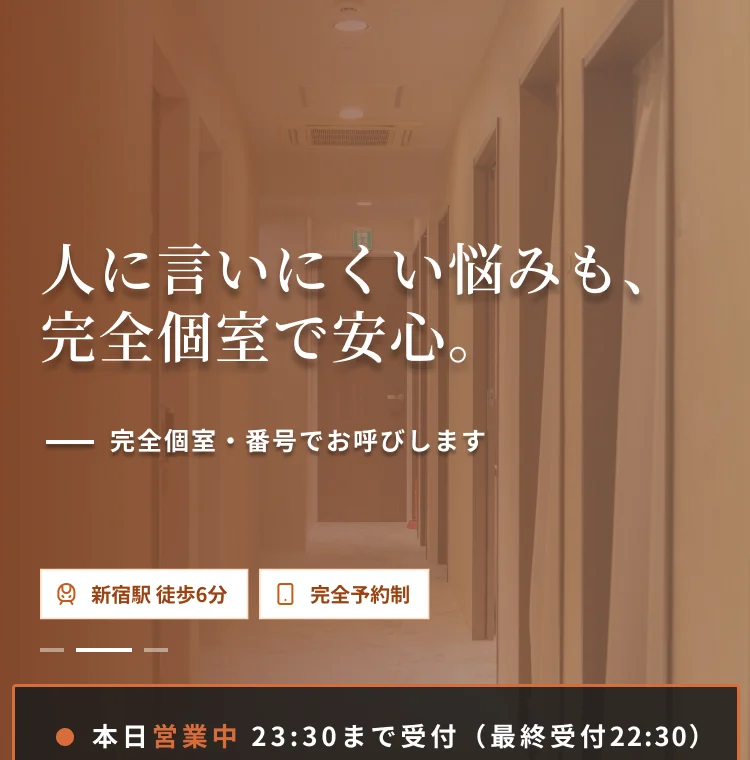
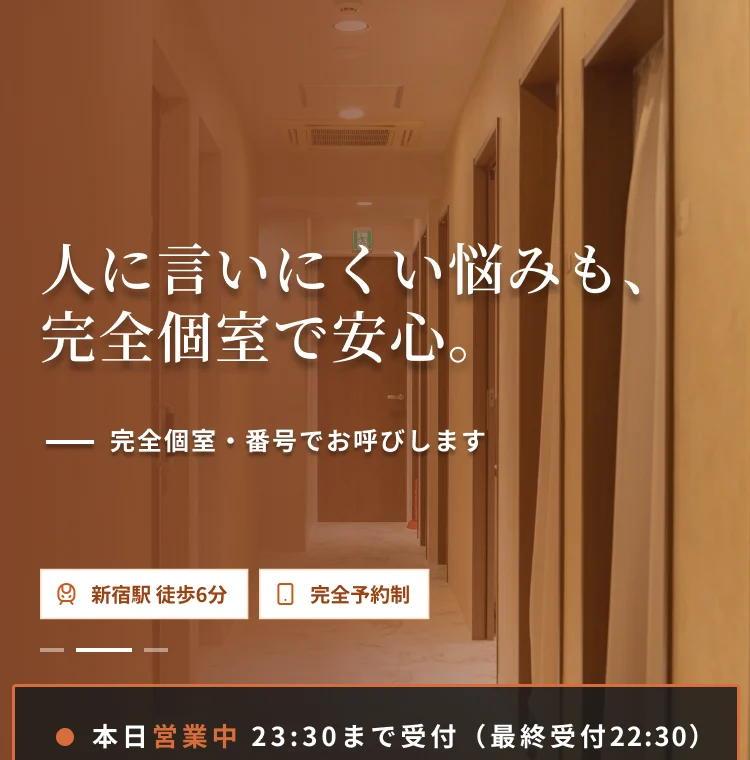
v5: lighter right side of TOP overlay, transparent AI chat button, manga link fix, manga pages
Claude-Session: https://claude.ai/code/session_01GKysvMgQaFn1SDy6QJPiim

diff --git a/public/v5/index.html b/public/v5/index.html
@@ -7,7 +7,7 @@
 <a class="hs hs-link" href="./en/" style="left:47.4%;top:25%;width:17.8%;height:50%;border-radius:2px" aria-label="English"></a>
 <button class="hs hs-web" data-act="web" style="left:65.9%;top:27%;width:17.9%;height:46%;border-radius:2px" aria-label="Web予約"></button>
 <button class="hs hs-menu" style="left:84.7%;top:15%;width:12.9%;height:70%;border-radius:2px" aria-label="メニュー"></button></header>
-<main><section class="sl fv"><div class="ch" style="aspect-ratio:375/1019"><img src="./assets/p/01/00.webp" alt="" width="750" height="2038" loading="eager" decoding="async"><div class="hero-sl" aria-roledescription="carousel" style="left:0.000%;top:0.000%;width:100.000%;height:37.291%"><img src="./assets/p/01/hero1.webp" alt="" width="750" height="760" decoding="async" class=on><img src="./assets/p/01/hero2.webp" alt="" width="750" height="760" decoding="async"><img src="./assets/p/01/hero3.webp" alt="" width="750" height="760" decoding="async"><button class="hero-dot" data-i="0" aria-label="スライド1を表示" style="left:4.267%;top:82.368%;width:9.600%;height:6.316%"></button><button class="hero-dot" data-i="1" aria-label="スライド2を表示" style="left:13.333%;top:82.368%;width:5.333%;height:6.316%"></button><button class="hero-dot" data-i="2" aria-label="スライド3を表示" style="left:18.133%;top:82.368%;width:5.333%;height:6.316%"></button></div><button class="hs hs-line" style="left:4.800%;top:42.591%;width:90.400%;height:2.159%;border-radius:2px" data-act="line" aria-label="line"></button><button class="hs hs-web" style="left:7.200%;top:48.381%;width:85.600%;height:5.299%;border-radius:2px" data-act="web" aria-label="web"></button></div></section><section class="sl rv"><div class="ch" style="aspect-ratio:375/376"><img src="./assets/p/01/01.webp" alt="" width="750" height="752" loading="eager" decoding="async"><a class="hs hs-link" style="left:9.867%;top:64.628%;width:80.267%;height:15.426%;border-radius:2px" href="./std/pcr/" aria-label="性病即日検査・PCR検査"></a></div></section><section class="sl rv"><div class="ch" style="aspect-ratio:375/396"><img src="./assets/p/01/02.webp" alt="" width="750" height="792" loading="eager" decoding="async"><a class="hs hs-link" style="left:4.800%;top:30.051%;width:90.400%;height:14.646%;border-radius:2px" href="./news/sample/" aria-label="お知らせ詳細"></a><a class="hs hs-link" style="left:4.800%;top:43.687%;width:90.400%;height:14.646%;border-radius:2px" href="./news/sample/" aria-label="お知らせ詳細"></a><a class="hs hs-link" style="left:4.800%;top:57.323%;width:90.400%;height:14.646%;border-radius:2px" href="./news/sample/" aria-label="お知らせ詳細"></a><a class="hs hs-link" style="left:4.800%;top:79.293%;width:90.400%;height:14.646%;border-radius:2px" href="./news/" aria-label="お知らせ一覧"></a></div></section><section class="sl rv"><div class="ch" style="aspect-ratio:375/423"><img src="./assets/p/01/03.webp" alt="" width="750" height="846" loading="lazy" decoding="async"><a class="hs hs-link" style="left:8.533%;top:50.118%;width:25.600%;height:8.274%;border-radius:2px" href="./price/" aria-label="料金表"></a><a class="hs hs-link" style="left:9.333%;top:69.740%;width:19.200%;height:9.929%;border-radius:2px" href="./price/" aria-label="料金表"></a><a class="hs hs-link" style="left:30.133%;top:69.740%;width:29.600%;height:9.929%;border-radius:2px" href="./faq/" aria-label="よくある質問"></a><a class="hs hs-link" style="left:61.333%;top:69.740%;width:29.600%;height:9.929%;border-radius:2px" href="./about/" aria-label="当院について"></a><a class="hs hs-link" style="left:9.333%;top:81.087%;width:44.000%;height:9.929%;border-radius:2px" href="./en/" aria-label="For Inbound Tourists"></a></div></section><section class="sl rv"><div class="ch" style="aspect-ratio:375/1734"><img src="./assets/p/01/04.webp" alt="" width="750" height="3468" loading="lazy" decoding="async"><a class="hs hs-link" style="left:10.400%;top:24.913%;width:35.200%;height:1.730%;border-radius:2px" href="./internal-medicine/" aria-label="内科"></a><a class="hs hs-link" style="left:10.400%;top:44.348%;width:35.200%;height:1.730%;border-radius:2px" href="./urology/" aria-label="泌尿器科"></a><a class="hs hs-link" style="left:10.400%;top:64.187%;width:35.200%;height:1.730%;border-radius:2px" href="./std/" aria-label="性病検査・性感染症"></a><a class="hs hs-link" style="left:9.067%;top:76.067%;width:35.200%;height:1.730%;border-radius:2px" href="./beauty/" aria-label="美容点滴・美容内服"></a><a class="hs hs-link" style="left:9.067%;top:82.584%;width:35.200%;height:1.730%;border-radius:2px" href="./ed/" aria-label="ED治療"></a><a class="hs hs-link" style="left:55.467%;top:88.927%;width:35.200%;height:1.730%;border-radius:2px" href="./pill/" aria-label="低用量ピル"></a><a class="hs hs-link" style="left:9.067%;top:88.927%;width:35.200%;height:1.730%;border-radius:2px" href="./afterpill/" aria-label="アフターピル"></a><a class="hs hs-link" style="left:55.467%;top:76.182%;width:35.200%;height:1.730%;border-radius:2px" href="./diet/" aria-label="メディカルダイエット"></a><a class="hs hs-link" style="left:55.200%;top:82.526%;width:35.200%;height:1.730%;border-radius:2px" href="./aga/" aria-label="AGA治療"></a><a class="hs hs-link" style="left:4.800%;top:94.348%;width:90.400%;height:3.345%;border-radius:2px" href="./jihi/" aria-label="自費診療一覧"></a></div></section><section class="sl rv"><div class="ch" style="aspect-ratio:375/1834"><img src="./assets/p/01/05.webp" alt="" width="750" height="3668" loading="lazy" decoding="async"></div></section><section class="sl rv"><div class="ch" style="aspect-ratio:375/693"><img src="./assets/p/01/06.webp" alt="" width="750" height="1386" loading="lazy" decoding="async"><a class="hs hs-link" style="left:4.800%;top:86.436%;width:90.400%;height:8.369%;border-radius:2px" href="./about/doctor/" aria-label="院長紹介"></a></div></section><section class="sl rv"><div class="ch" style="aspect-ratio:375/1027"><img src="./assets/p/01/07.webp" alt="" width="750" height="2054" loading="lazy" decoding="async"><a class="hs hs-link" style="left:4.800%;top:90.847%;width:90.400%;height:5.648%;border-radius:2px" href="./about/" aria-label="当院について"></a></div></section><section class="sl rv"><div class="ch" style="aspect-ratio:375/755"><img src="./assets/p/01/08.webp" alt="" width="750" height="1510" loading="lazy" decoding="async"><button class="hs hs-line" style="left:8.800%;top:25.960%;width:82.400%;height:7.152%;border-radius:2px" data-act="line" aria-label="line"></button><button class="hs hs-web" style="left:8.800%;top:34.834%;width:82.400%;height:7.152%;border-radius:2px" data-act="web" aria-label="web"></button><a class="hs hs-tel" style="left:39.200%;top:54.437%;width:30.933%;height:5.563%;border-radius:2px" href="tel:0362056944" aria-label="tel"></a></div></section><section class="sl rv"><div class="ch" style="aspect-ratio:375/272"><img src="./assets/p/01/09.webp" alt="" width="750" height="544" loading="lazy" decoding="async"><a class="hs hs-tel" style="left:4.800%;top:79.779%;width:30.933%;height:9.559%;border-radius:2px" href="tel:0362056944" aria-label="電話"></a></div><div class="fsm" style="background:#4a3326"><div class="fsg"><button class="fsh" aria-expanded="false">診療科目<i></i></button><div class="fsp"><div class="ap-in"><ul><li><a class="fsl" href="./internal-medicine/">内科</a></li><li><a class="fsl" href="./urology/">泌尿器科</a></li></ul></div></div></div><div class="fsg"><button class="fsh" aria-expanded="false">性病検査<i></i></button><div class="fsp"><div class="ap-in"><ul><li><a class="fsl" href="./std/">性病検査・性感染症</a></li><li><a class="fsl" href="./std/pcr/">性病即日検査・PCR検査</a></li><li><a class="fsl" href="./std/chlamydia/">クラミジア</a></li><li><a class="fsl" href="./std/gonorrhea/">淋菌（淋病）</a></li><li><a class="fsl" href="./std/syphilis/">梅毒</a></li><li><a class="fsl" href="./std/hiv/">HIV</a></li><li><a class="fsl" href="./std/candida/">カンジダ</a></li><li><a class="fsl" href="./std/trichomonas/">トリコモナス</a></li><li><a class="fsl" href="./std/herpes/">性器・口唇ヘルペス</a></li><li><a class="fsl" href="./std/mycoplasma/">マイコプラズマ尿道炎</a></li><li><a class="fsl" href="./std/hepatitis/">B型・C型肝炎</a></li></ul></div></div></div><div class="fsg"><button class="fsh" aria-expanded="false">自費診療<i></i></button><div class="fsp"><div class="ap-in"><ul><li><a class="fsl" href="./jihi/">自費診療一覧</a></li><li><a class="fsl" href="./beauty/">美容点滴・美容内服</a></li><li><a class="fsl" href="./aga/">AGA治療</a></li><li><a class="fsl" href="./ed/">ED治療</a></li><li><a class="fsl" href="./pill/">低用量ピル</a></li><li><a class="fsl" href="./afterpill/">アフターピル</a></li><li><a class="fsl" href="./diet/">メディカルダイエット</a></li></ul></div></div></div><div class="fsg"><button class="fsh" aria-expanded="false">クリニック<i></i></button><div class="fsp"><div class="ap-in"><ul><li><a class="fsl" href="./price/">料金表</a></li><li><a class="fsl" href="./about/">当院について</a></li><li><a class="fsl" href="./about/doctor/">院長紹介</a></li><li><a class="fsl" href="./faq/">よくある質問</a></li><li><a class="fsl" href="./news/">お知らせ一覧</a></li><li><a class="fsl" href="./manga/">マンガでわかる！</a></li><li><a class="fsl" href="./en/">For Inbound Tourists</a></li><li><a class="fsl" href="./privacy/">プライバシーポリシー</a></li></ul></div></div></div></div><div class="ch" style="aspect-ratio:375/124"><img src="./assets/p/01/10.webp" alt="" width="750" height="248" loading="lazy" decoding="async"><button class="hs hs-sns" style="left:4.800%;top:4.032%;width:12.800%;height:35.484%;border-radius:2px" data-act="sns" aria-label="X"></button><button class="hs hs-sns" style="left:19.200%;top:4.032%;width:29.067%;height:35.484%;border-radius:2px" data-act="sns" aria-label="Instagram"></button></div></section></main>
+<main><section class="sl fv"><div class="ch" style="aspect-ratio:375/1019"><img src="./assets/p/01/00.webp" alt="" width="750" height="2038" loading="eager" decoding="async"><div class="hero-sl" aria-roledescription="carousel" style="left:0.000%;top:0.000%;width:100.000%;height:37.291%"><img src="./assets/p/01/hero1.webp" alt="" width="750" height="760" decoding="async" class=on><img src="./assets/p/01/hero2.webp" alt="" width="750" height="760" decoding="async"><img src="./assets/p/01/hero3.webp" alt="" width="750" height="760" decoding="async"><button class="hero-dot" data-i="0" aria-label="スライド1を表示" style="left:4.267%;top:82.368%;width:9.600%;height:6.316%"></button><button class="hero-dot" data-i="1" aria-label="スライド2を表示" style="left:13.333%;top:82.368%;width:5.333%;height:6.316%"></button><button class="hero-dot" data-i="2" aria-label="スライド3を表示" style="left:18.133%;top:82.368%;width:5.333%;height:6.316%"></button></div><button class="hs hs-line" style="left:4.800%;top:42.591%;width:90.400%;height:2.159%;border-radius:2px" data-act="line" aria-label="line"></button><button class="hs hs-web" style="left:7.200%;top:48.381%;width:85.600%;height:5.299%;border-radius:2px" data-act="web" aria-label="web"></button></div></section><section class="sl rv"><div class="ch" style="aspect-ratio:375/376"><img src="./assets/p/01/01.webp" alt="" width="750" height="752" loading="eager" decoding="async"><a class="hs hs-link" style="left:9.867%;top:64.628%;width:80.267%;height:15.426%;border-radius:2px" href="./std/pcr/" aria-label="性病即日検査・PCR検査"></a></div></section><section class="sl rv"><div class="ch" style="aspect-ratio:375/396"><img src="./assets/p/01/02.webp" alt="" width="750" height="792" loading="eager" decoding="async"><a class="hs hs-link" style="left:4.800%;top:30.051%;width:90.400%;height:14.646%;border-radius:2px" href="./news/sample/" aria-label="お知らせ詳細"></a><a class="hs hs-link" style="left:4.800%;top:43.687%;width:90.400%;height:14.646%;border-radius:2px" href="./news/sample/" aria-label="お知らせ詳細"></a><a class="hs hs-link" style="left:4.800%;top:57.323%;width:90.400%;height:14.646%;border-radius:2px" href="./news/sample/" aria-label="お知らせ詳細"></a><a class="hs hs-link" style="left:4.800%;top:79.293%;width:90.400%;height:14.646%;border-radius:2px" href="./news/" aria-label="お知らせ一覧"></a></div></section><section class="sl rv"><div class="ch" style="aspect-ratio:375/423"><img src="./assets/p/01/03.webp" alt="" width="750" height="846" loading="lazy" decoding="async"><a class="hs hs-link" style="left:8.533%;top:50.118%;width:25.600%;height:8.274%;border-radius:2px" href="./manga/" aria-label="マンガでわかる！"></a><a class="hs hs-link" style="left:9.333%;top:69.740%;width:19.200%;height:9.929%;border-radius:2px" href="./price/" aria-label="料金表"></a><a class="hs hs-link" style="left:30.133%;top:69.740%;width:29.600%;height:9.929%;border-radius:2px" href="./faq/" aria-label="よくある質問"></a><a class="hs hs-link" style="left:61.333%;top:69.740%;width:29.600%;height:9.929%;border-radius:2px" href="./about/" aria-label="当院について"></a><a class="hs hs-link" style="left:9.333%;top:81.087%;width:44.000%;height:9.929%;border-radius:2px" href="./en/" aria-label="For Inbound Tourists"></a></div></section><section class="sl rv"><div class="ch" style="aspect-ratio:375/1734"><img src="./assets/p/01/04.webp" alt="" width="750" height="3468" loading="lazy" decoding="async"><a class="hs hs-link" style="left:10.400%;top:24.913%;width:35.200%;height:1.730%;border-radius:2px" href="./internal-medicine/" aria-label="内科"></a><a class="hs hs-link" style="left:10.400%;top:44.348%;width:35.200%;height:1.730%;border-radius:2px" href="./urology/" aria-label="泌尿器科"></a><a class="hs hs-link" style="left:10.400%;top:64.187%;width:35.200%;height:1.730%;border-radius:2px" href="./std/" aria-label="性病検査・性感染症"></a><a class="hs hs-link" style="left:9.067%;top:76.067%;width:35.200%;height:1.730%;border-radius:2px" href="./beauty/" aria-label="美容点滴・美容内服"></a><a class="hs hs-link" style="left:9.067%;top:82.584%;width:35.200%;height:1.730%;border-radius:2px" href="./ed/" aria-label="ED治療"></a><a class="hs hs-link" style="left:55.467%;top:88.927%;width:35.200%;height:1.730%;border-radius:2px" href="./pill/" aria-label="低用量ピル"></a><a class="hs hs-link" style="left:9.067%;top:88.927%;width:35.200%;height:1.730%;border-radius:2px" href="./afterpill/" aria-label="アフターピル"></a><a class="hs hs-link" style="left:55.467%;top:76.182%;width:35.200%;height:1.730%;border-radius:2px" href="./diet/" aria-label="メディカルダイエット"></a><a class="hs hs-link" style="left:55.200%;top:82.526%;width:35.200%;height:1.730%;border-radius:2px" href="./aga/" aria-label="AGA治療"></a><a class="hs hs-link" style="left:4.800%;top:94.348%;width:90.400%;height:3.345%;border-radius:2px" href="./jihi/" aria-label="自費診療一覧"></a></div></section><section class="sl rv"><div class="ch" style="aspect-ratio:375/1834"><img src="./assets/p/01/05.webp" alt="" width="750" height="3668" loading="lazy" decoding="async"></div></section><section class="sl rv"><div class="ch" style="aspect-ratio:375/693"><img src="./assets/p/01/06.webp" alt="" width="750" height="1386" loading="lazy" decoding="async"><a class="hs hs-link" style="left:4.800%;top:86.436%;width:90.400%;height:8.369%;border-radius:2px" href="./about/doctor/" aria-label="院長紹介"></a></div></section><section class="sl rv"><div class="ch" style="aspect-ratio:375/1027"><img src="./assets/p/01/07.webp" alt="" width="750" height="2054" loading="lazy" decoding="async"><a class="hs hs-link" style="left:4.800%;top:90.847%;width:90.400%;height:5.648%;border-radius:2px" href="./about/" aria-label="当院について"></a></div></section><section class="sl rv"><div class="ch" style="aspect-ratio:375/755"><img src="./assets/p/01/08.webp" alt="" width="750" height="1510" loading="lazy" decoding="async"><button class="hs hs-line" style="left:8.800%;top:25.960%;width:82.400%;height:7.152%;border-radius:2px" data-act="line" aria-label="line"></button><button class="hs hs-web" style="left:8.800%;top:34.834%;width:82.400%;height:7.152%;border-radius:2px" data-act="web" aria-label="web"></button><a class="hs hs-tel" style="left:39.200%;top:54.437%;width:30.933%;height:5.563%;border-radius:2px" href="tel:0362056944" aria-label="tel"></a></div></section><section class="sl rv"><div class="ch" style="aspect-ratio:375/272"><img src="./assets/p/01/09.webp" alt="" width="750" height="544" loading="lazy" decoding="async"><a class="hs hs-tel" style="left:4.800%;top:79.779%;width:30.933%;height:9.559%;border-radius:2px" href="tel:0362056944" aria-label="電話"></a></div><div class="fsm" style="background:#4a3326"><div class="fsg"><button class="fsh" aria-expanded="false">診療科目<i></i></button><div class="fsp"><div class="ap-in"><ul><li><a class="fsl" href="./internal-medicine/">内科</a></li><li><a class="fsl" href="./urology/">泌尿器科</a></li></ul></div></div></div><div class="fsg"><button class="fsh" aria-expanded="false">性病検査<i></i></button><div class="fsp"><div class="ap-in"><ul><li><a class="fsl" href="./std/">性病検査・性感染症</a></li><li><a class="fsl" href="./std/pcr/">性病即日検査・PCR検査</a></li><li><a class="fsl" href="./std/chlamydia/">クラミジア</a></li><li><a class="fsl" href="./std/gonorrhea/">淋菌（淋病）</a></li><li><a class="fsl" href="./std/syphilis/">梅毒</a></li><li><a class="fsl" href="./std/hiv/">HIV</a></li><li><a class="fsl" href="./std/candida/">カンジダ</a></li><li><a class="fsl" href="./std/trichomonas/">トリコモナス</a></li><li><a class="fsl" href="./std/herpes/">性器・口唇ヘルペス</a></li><li><a class="fsl" href="./std/mycoplasma/">マイコプラズマ尿道炎</a></li><li><a class="fsl" href="./std/hepatitis/">B型・C型肝炎</a></li></ul></div></div></div><div class="fsg"><button class="fsh" aria-expanded="false">自費診療<i></i></button><div class="fsp"><div class="ap-in"><ul><li><a class="fsl" href="./jihi/">自費診療一覧</a></li><li><a class="fsl" href="./beauty/">美容点滴・美容内服</a></li><li><a class="fsl" href="./aga/">AGA治療</a></li><li><a class="fsl" href="./ed/">ED治療</a></li><li><a class="fsl" href="./pill/">低用量ピル</a></li><li><a class="fsl" href="./afterpill/">アフターピル</a></li><li><a class="fsl" href="./diet/">メディカルダイエット</a></li></ul></div></div></div><div class="fsg"><button class="fsh" aria-expanded="false">クリニック<i></i></button><div class="fsp"><div class="ap-in"><ul><li><a class="fsl" href="./price/">料金表</a></li><li><a class="fsl" href="./about/">当院について</a></li><li><a class="fsl" href="./about/doctor/">院長紹介</a></li><li><a class="fsl" href="./faq/">よくある質問</a></li><li><a class="fsl" href="./news/">お知らせ一覧</a></li><li><a class="fsl" href="./manga/">マンガでわかる！</a></li><li><a class="fsl" href="./en/">For Inbound Tourists</a></li><li><a class="fsl" href="./privacy/">プライバシーポリシー</a></li></ul></div></div></div></div><div class="ch" style="aspect-ratio:375/124"><img src="./assets/p/01/10.webp" alt="" width="750" height="248" loading="lazy" decoding="async"><button class="hs hs-sns" style="left:4.800%;top:4.032%;width:12.800%;height:35.484%;border-radius:2px" data-act="sns" aria-label="X"></button><button class="hs hs-sns" style="left:19.200%;top:4.032%;width:29.067%;height:35.484%;border-radius:2px" data-act="sns" aria-label="Instagram"></button></div></section></main>
 <div class="fbar"><img src="./assets/fixed.webp" alt="" width="750" height="124"><button class="hs hs-line" data-act="line" style="left:2.1%;top:14.5%;width:30.8%;height:71%;border-radius:2px" aria-label="LINE予約"></button><button class="hs hs-web" data-act="web" style="left:34.5%;top:14.5%;width:30.8%;height:71%;border-radius:2px" aria-label="Web予約"></button><a class="hs hs-tel" href="tel:0362056944" style="left:67.1%;top:14.5%;width:30.7%;height:71%;border-radius:2px" aria-label="電話相談"></a><button class="ai" data-act="ai" aria-label="AIチャット"><img src="./assets/ai.webp" alt="" width="112" height="112"></button></div>
 </div>
 <nav class="menu" aria-hidden="true"><div class="menu-in">

diff --git a/public/v5/manga/index.html b/public/v5/manga/index.html
@@ -7,7 +7,7 @@
 <a class="hs hs-link" href="../en/" style="left:47.4%;top:25%;width:17.8%;height:50%;border-radius:2px" aria-label="English"></a>
 <button class="hs hs-web" data-act="web" style="left:65.9%;top:27%;width:17.9%;height:46%;border-radius:2px" aria-label="Web予約"></button>
 <button class="hs hs-menu" style="left:84.7%;top:15%;width:12.9%;height:70%;border-radius:2px" aria-label="メニュー"></button></header>
-<main><section class="sl fv"><div class="ch" style="aspect-ratio:375/953"><img src="../assets/p/29/00.webp" alt="" width="750" height="1906" loading="eager" decoding="async"><a class="hs hs-link hs-bc" href="../" aria-label="TOP" style="left:4.267%;top:5.247%;width:8.364%;height:3.148%;border-radius:2px"></a><a class="hs hs-link" style="left:4.800%;top:89.927%;width:15.733%;height:4.407%;border-radius:2px" href="../internal-medicine/" aria-label="内科"></a><a class="hs hs-link" style="left:22.133%;top:89.927%;width:22.667%;height:4.407%;border-radius:2px" href="../urology/" aria-label="泌尿器科"></a><a class="hs hs-link" style="left:46.400%;top:89.927%;width:22.667%;height:4.407%;border-radius:2px" href="../std/" aria-label="性病検査・性感染症"></a><a class="hs hs-link" style="left:70.667%;top:89.927%;width:22.667%;height:4.407%;border-radius:2px" href="../jihi/" aria-label="自費診療一覧"></a></div></section><section class="sl rv"><div class="ch" style="aspect-ratio:375/755"><img src="../assets/p/29/01.webp" alt="" width="750" height="1510" loading="eager" decoding="async"><button class="hs hs-line" style="left:8.800%;top:25.960%;width:82.400%;height:7.152%;border-radius:2px" data-act="line" aria-label="line"></button><button class="hs hs-web" style="left:8.800%;top:34.834%;width:82.400%;height:7.152%;border-radius:2px" data-act="web" aria-label="web"></button><a class="hs hs-tel" style="left:39.200%;top:54.437%;width:30.933%;height:5.563%;border-radius:2px" href="tel:0362056944" aria-label="tel"></a></div></section><section class="sl rv"><div class="ch" style="aspect-ratio:375/272"><img src="../assets/p/29/02.webp" alt="" width="750" height="544" loading="eager" decoding="async"><a class="hs hs-tel" style="left:4.800%;top:79.779%;width:30.933%;height:9.559%;border-radius:2px" href="tel:0362056944" aria-label="電話"></a></div><div class="fsm" style="background:#4a3326"><div class="fsg"><button class="fsh" aria-expanded="false">診療科目<i></i></button><div class="fsp"><div class="ap-in"><ul><li><a class="fsl" href="../internal-medicine/">内科</a></li><li><a class="fsl" href="../urology/">泌尿器科</a></li></ul></div></div></div><div class="fsg"><button class="fsh" aria-expanded="false">性病検査<i></i></button><div class="fsp"><div class="ap-in"><ul><li><a class="fsl" href="../std/">性病検査・性感染症</a></li><li><a class="fsl" href="../std/pcr/">性病即日検査・PCR検査</a></li><li><a class="fsl" href="../std/chlamydia/">クラミジア</a></li><li><a class="fsl" href="../std/gonorrhea/">淋菌（淋病）</a></li><li><a class="fsl" href="../std/syphilis/">梅毒</a></li><li><a class="fsl" href="../std/hiv/">HIV</a></li><li><a class="fsl" href="../std/candida/">カンジダ</a></li><li><a class="fsl" href="../std/trichomonas/">トリコモナス</a></li><li><a class="fsl" href="../std/herpes/">性器・口唇ヘルペス</a></li><li><a class="fsl" href="../std/mycoplasma/">マイコプラズマ尿道炎</a></li><li><a class="fsl" href="../std/hepatitis/">B型・C型肝炎</a></li></ul></div></div></div><div class="fsg"><button class="fsh" aria-expanded="false">自費診療<i></i></button><div class="fsp"><div class="ap-in"><ul><li><a class="fsl" href="../jihi/">自費診療一覧</a></li><li><a class="fsl" href="../beauty/">美容点滴・美容内服</a></li><li><a class="fsl" href="../aga/">AGA治療</a></li><li><a class="fsl" href="../ed/">ED治療</a></li><li><a class="fsl" href="../pill/">低用量ピル</a></li><li><a class="fsl" href="../afterpill/">アフターピル</a></li><li><a class="fsl" href="../diet/">メディカルダイエット</a></li></ul></div></div></div><div class="fsg"><button class="fsh" aria-expanded="false">クリニック<i></i></button><div class="fsp"><div class="ap-in"><ul><li><a class="fsl" href="../price/">料金表</a></li><li><a class="fsl" href="../about/">当院について</a></li><li><a class="fsl" href="../about/doctor/">院長紹介</a></li><li><a class="fsl" href="../faq/">よくある質問</a></li><li><a class="fsl" href="../news/">お知らせ一覧</a></li><li><a class="fsl cur" href="../manga/" aria-current=page>マンガでわかる！</a></li><li><a class="fsl" href="../en/">For Inbound Tourists</a></li><li><a class="fsl" href="../privacy/">プライバシーポリシー</a></li></ul></div></div></div></div><div class="ch" style="aspect-ratio:375/124"><img src="../assets/p/29/03.webp" alt="" width="750" height="248" loading="lazy" decoding="async"><button class="hs hs-sns" style="left:4.800%;top:4.032%;width:12.800%;height:35.484%;border-radius:2px" data-act="sns" aria-label="X"></button><button class="hs hs-sns" style="left:19.200%;top:4.032%;width:29.067%;height:35.484%;border-radius:2px" data-act="sns" aria-label="Instagram"></button></div></section></main>
+<main><section class="sl fv"><div class="ch" style="aspect-ratio:375/3217"><img src="../assets/p/29/00.webp" alt="" width="750" height="6434" loading="eager" decoding="async"><a class="hs hs-link hs-bc" href="../" aria-label="TOP" style="left:4.267%;top:1.554%;width:8.364%;height:0.933%;border-radius:2px"></a><a class="hs hs-link" style="left:4.800%;top:97.016%;width:15.733%;height:1.306%;border-radius:2px" href="../internal-medicine/" aria-label="内科"></a><a class="hs hs-link" style="left:22.133%;top:97.016%;width:22.667%;height:1.306%;border-radius:2px" href="../urology/" aria-label="泌尿器科"></a><a class="hs hs-link" style="left:46.400%;top:97.016%;width:22.667%;height:1.306%;border-radius:2px" href="../std/" aria-label="性病検査・性感染症"></a><a class="hs hs-link" style="left:70.667%;top:97.016%;width:22.667%;height:1.306%;border-radius:2px" href="../jihi/" aria-label="自費診療一覧"></a></div></section><section class="sl rv"><div class="ch" style="aspect-ratio:375/755"><img src="../assets/p/29/01.webp" alt="" width="750" height="1510" loading="eager" decoding="async"><button class="hs hs-line" style="left:8.800%;top:25.960%;width:82.400%;height:7.152%;border-radius:2px" data-act="line" aria-label="line"></button><button class="hs hs-web" style="left:8.800%;top:34.834%;width:82.400%;height:7.152%;border-radius:2px" data-act="web" aria-label="web"></button><a class="hs hs-tel" style="left:39.200%;top:54.437%;width:30.933%;height:5.563%;border-radius:2px" href="tel:0362056944" aria-label="tel"></a></div></section><section class="sl rv"><div class="ch" style="aspect-ratio:375/272"><img src="../assets/p/29/02.webp" alt="" width="750" height="544" loading="eager" decoding="async"><a class="hs hs-tel" style="left:4.800%;top:79.779%;width:30.933%;height:9.559%;border-radius:2px" href="tel:0362056944" aria-label="電話"></a></div><div class="fsm" style="background:#4a3326"><div class="fsg"><button class="fsh" aria-expanded="false">診療科目<i></i></button><div class="fsp"><div class="ap-in"><ul><li><a class="fsl" href="../internal-medicine/">内科</a></li><li><a class="fsl" href="../urology/">泌尿器科</a></li></ul></div></div></div><div class="fsg"><button class="fsh" aria-expanded="false">性病検査<i></i></button><div class="fsp"><div class="ap-in"><ul><li><a class="fsl" href="../std/">性病検査・性感染症</a></li><li><a class="fsl" href="../std/pcr/">性病即日検査・PCR検査</a></li><li><a class="fsl" href="../std/chlamydia/">クラミジア</a></li><li><a class="fsl" href="../std/gonorrhea/">淋菌（淋病）</a></li><li><a class="fsl" href="../std/syphilis/">梅毒</a></li><li><a class="fsl" href="../std/hiv/">HIV</a></li><li><a class="fsl" href="../std/candida/">カンジダ</a></li><li><a class="fsl" href="../std/trichomonas/">トリコモナス</a></li><li><a class="fsl" href="../std/herpes/">性器・口唇ヘルペス</a></li><li><a class="fsl" href="../std/mycoplasma/">マイコプラズマ尿道炎</a></li><li><a class="fsl" href="../std/hepatitis/">B型・C型肝炎</a></li></ul></div></div></div><div class="fsg"><button class="fsh" aria-expanded="false">自費診療<i></i></button><div class="fsp"><div class="ap-in"><ul><li><a class="fsl" href="../jihi/">自費診療一覧</a></li><li><a class="fsl" href="../beauty/">美容点滴・美容内服</a></li><li><a class="fsl" href="../aga/">AGA治療</a></li><li><a class="fsl" href="../ed/">ED治療</a></li><li><a class="fsl" href="../pill/">低用量ピル</a></li><li><a class="fsl" href="../afterpill/">アフターピル</a></li><li><a class="fsl" href="../diet/">メディカルダイエット</a></li></ul></div></div></div><div class="fsg"><button class="fsh" aria-expanded="false">クリニック<i></i></button><div class="fsp"><div class="ap-in"><ul><li><a class="fsl" href="../price/">料金表</a></li><li><a class="fsl" href="../about/">当院について</a></li><li><a class="fsl" href="../about/doctor/">院長紹介</a></li><li><a class="fsl" href="../faq/">よくある質問</a></li><li><a class="fsl" href="../news/">お知らせ一覧</a></li><li><a class="fsl cur" href="../manga/" aria-current=page>マンガでわかる！</a></li><li><a class="fsl" href="../en/">For Inbound Tourists</a></li><li><a class="fsl" href="../privacy/">プライバシーポリシー</a></li></ul></div></div></div></div><div class="ch" style="aspect-ratio:375/124"><img src="../assets/p/29/03.webp" alt="" width="750" height="248" loading="lazy" decoding="async"><button class="hs hs-sns" style="left:4.800%;top:4.032%;width:12.800%;height:35.484%;border-radius:2px" data-act="sns" aria-label="X"></button><button class="hs hs-sns" style="left:19.200%;top:4.032%;width:29.067%;height:35.484%;border-radius:2px" data-act="sns" aria-label="Instagram"></button></div></section></main>
 <div class="fbar"><img src="../assets/fixed.webp" alt="" width="750" height="124"><button class="hs hs-line" data-act="line" style="left:2.1%;top:14.5%;width:30.8%;height:71%;border-radius:2px" aria-label="LINE予約"></button><button class="hs hs-web" data-act="web" style="left:34.5%;top:14.5%;width:30.8%;height:71%;border-radius:2px" aria-label="Web予約"></button><a class="hs hs-tel" href="tel:0362056944" style="left:67.1%;top:14.5%;width:30.7%;height:71%;border-radius:2px" aria-label="電話相談"></a><button class="ai" data-act="ai" aria-label="AIチャット"><img src="../assets/ai.webp" alt="" width="112" height="112"></button></div>
 </div>
 <nav class="menu" aria-hidden="true"><div class="menu-in">

diff --git a/public/assets/app.css b/public/assets/app.css
@@ -110,3 +110,5 @@ img{display:block;width:100%;height:auto;user-select:none;-webkit-user-drag:none
 .fv .hero-sl{animation:fvIn 1.4s var(--ease) both}
 .hero-dot{position:absolute;padding:0;border:0;background:none;cursor:pointer;z-index:2}
 @media (prefers-reduced-motion:reduce){.hero-sl img{transition:none}}
+
+.v5 .ai{filter:none}

diff --git a/public/v5/assets/app.css b/public/v5/assets/app.css
@@ -110,3 +110,5 @@ img{display:block;width:100%;height:auto;user-select:none;-webkit-user-drag:none
 .fv .hero-sl{animation:fvIn 1.4s var(--ease) both}
 .hero-dot{position:absolute;padding:0;border:0;background:none;cursor:pointer;z-index:2}
 @media (prefers-reduced-motion:reduce){.hero-sl img{transition:none}}
+
+.v5 .ai{filter:none}

diff --git a/tools/build.py b/tools/build.py
@@ -153,6 +153,8 @@ def build():
                 from PIL import ImageDraw
                 mk = Image.new('L', ai.size, 0); ImageDraw.Draw(mk).ellipse((2, 2, 110, 110), fill=255); ai.putalpha(mk)
                 ai.save(os.path.join(PUB, 'assets', 'ai.webp'), quality=90)
+                if VER == 'v5' and os.path.exists(os.path.join(ROOT, 'ai_v5', 'ai.webp')):  # v5は背景透過のボタン画像（固定バーの茶色が写り込まない）
+                    shutil.copy(os.path.join(ROOT, 'ai_v5', 'ai.webp'), os.path.join(PUB, 'assets', 'ai.webp'))
             im.paste(im.crop((612 - 260, fy - 88, 740 - 260, fy)), (612, fy - 88))
         # TOPスライド（v5）：hero_v5/s1〜3.png（写真枠＝375×380の2倍書き出し）
         hdir = os.path.join(ROOT, 'hero_v5')
